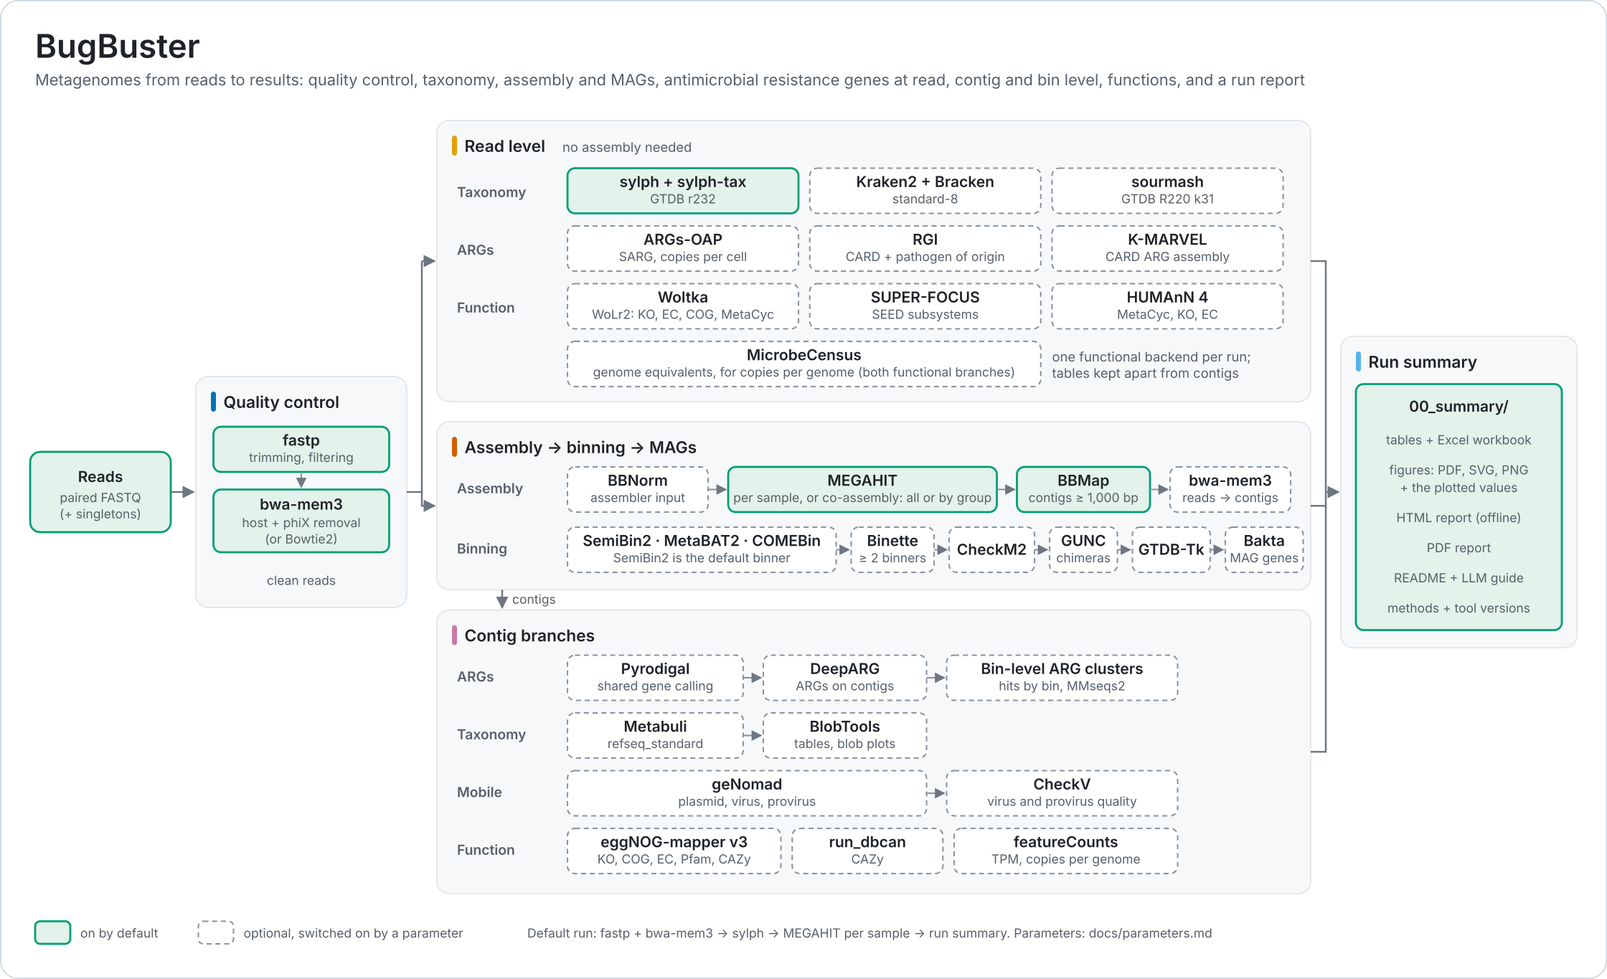
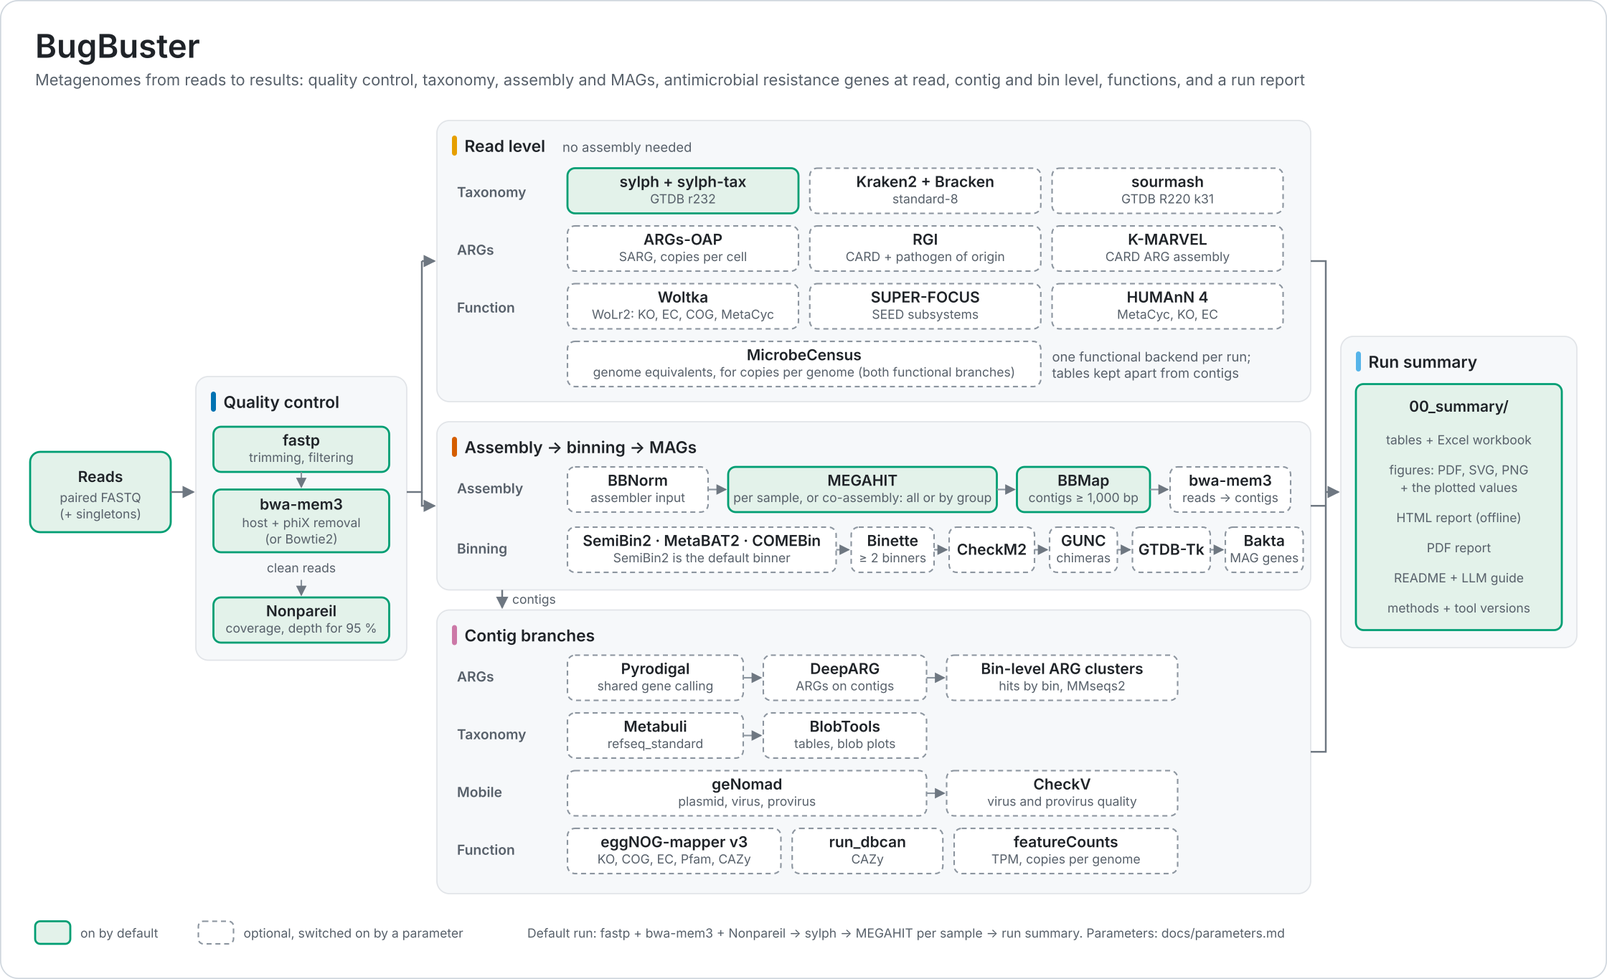
docs: Nonpareil sequencing coverage
--nonpareil and --summary_min_nonpareil_coverage in docs/parameters.md and the
manual (what the curve, coverage, Nd and the depth for 95 % coverage mean, how
to read the figure, the low-coverage note, R1 only, run-to-run noise, cost),
NONPAREIL in the workflow diagrams (QC stage, gates, module reference,
outputs), an on-by-default box in the overview figure, README and CHANGELOG.

Changed region(s): [[0.125, 0.5846, 0.25, 0.6769], [0.6875, 0.9538, 0.7188, 0.9846], [0.5312, 0.9231, 0.5625, 0.9538]]

diff --git a/docs/manual.md b/docs/manual.md
@@ -484,6 +484,7 @@ breaks `-resume`.
 | Parameter | Default | Options | Description |
 |-----------|---------|---------|-------------|
 | `--quality_control` | `true` | `true`, `false` | Enable QC and host filtering |
+| `--nonpareil` | `true` | `true`, `false` | Nonpareil sequencing coverage, diversity (Nd) and read pairs for 95 % coverage per sample, from R1 of the clean reads; see 6.5 |
 | `--assembly_mode` | `assembly` | `assembly`, `coassembly`, `none` | Genome assembly strategy |
 | `--coassembly_group_by` | — | a `--sample_metadata` column | With `coassembly`: one co-assembly per value of the column (see 6.7) |
 | `--taxonomic_profiler` | `sylph` | `kraken2`, `sourmash`, `sylph`, `none` | Taxonomic profiling tool (default `sourmash` before 2.0.0) |
@@ -693,6 +694,43 @@ breaks `-resume`.
 | `--fastp_cut_front_mean_quality` | `20` | Mean quality threshold for front trimming |
 | `--fastp_cut_right_window_size` | `4` | Sliding window size for right trimming |
 | `--fastp_cut_right_mean_quality` | `20` | Mean quality threshold for right trimming |
+
+#### Sequencing coverage (Nonpareil)
+
+With `--nonpareil` (on by default), Nonpareil 3.5.5 estimates how much of each sample's community its reads cover, from the
+redundancy of the reads themselves: no reference database is involved. It takes 10,000 query reads from R1 of the
+clean reads and asks, at sequencing efforts from a fraction of the sample up to all of it, how often a query's
+k-mers (k = 24) are found in the other reads. A read that matches sequence seen before adds no new diversity, so
+this share, plotted against the effort, is the **coverage curve**. The Nonpareil R package (`Nonpareil.curve`)
+corrects it and fits a model that projects it to larger efforts. Three values come out per sample
+(`00_summary/tables/samples_qc.tsv`, and `01_quality_control/nonpareil/<sample>/<sample>_nonpareil.tsv`):
+
+- `nonpareil_coverage`: the estimated average coverage at the sample's sequenced depth (0-1). 0.9 means about
+  nine in ten new reads would match sequence already sequenced; the rest of the community is still unsampled.
+- `nonpareil_diversity`: the sequence diversity index Nd, the position of the fitted curve on the log scale of
+  sequencing effort. A more diverse community needs more sequencing to reach the same coverage and has a higher Nd.
+  It correlates with alpha diversity (Rodriguez-R et al. 2018) but does not depend on a reference database.
+- `nonpareil_depth_95pct`: the read pairs the model projects for 95 % coverage. Compare it with `clean_pairs`:
+  far above it, much of the community's diversity is still unsampled.
+
+**The figure** (`nonpareil_curves`, in the report's overview) draws each sample's observed curve (solid, with its
+25th-75th percentiles when there are few samples) and the model's projection (dashed) against read pairs on a log
+axis. The point is the sample's sequenced depth at its coverage. Where the dashed line crosses the dotted 95 % line
+is `nonpareil_depth_95pct`. A curve that is still climbing steeply at its point would gain much from more
+sequencing, and a flat one would gain little. The dashed vermillion line is the low-coverage cutoff,
+`--summary_min_nonpareil_coverage` (0.6 by default). Samples below it get a note in the overview and the README: a
+taxon or gene missing there is weak evidence, and an assembly recovers mainly the dominant populations. The
+low-depth flag (`--summary_min_clean_pairs`) stays a read count and is not changed by Nonpareil.
+
+Nonpareil uses R1 only (R2 comes from the same fragments and adds none of its own) and leaves the singleton file
+out. Its values are per sample, so they are valid in any batch and comparable across batches. Its k-mer mode has
+no random seed, so a rerun gives slightly different values. When the curve cannot be fitted (too few reads, or a
+curve the package rejects), the coverage is still reported and Nd and the 95 % depth are blank; the package's
+warning is in the `warning` column of `<sample>_nonpareil.tsv`. Failure is non-fatal: the sample has no Nonpareil
+values. Reads shorter than k (24 bp; fastp keeps reads down to 15 bp) stop Nonpareil's k-mer mode, so they are left
+out first (`reads_shorter_than_k`, about 0.1 % of the reads). Cost per 10 M read pairs: about 3 min with 2 CPUs (5
+CPU-minutes), a few MB of memory and 3 GB of transient disk; it grows with the read count, and more CPUs do not
+shorten it. `--nonpareil false` turns it off.
 
 ### 6.6 Taxonomy Profiling Options
 
@@ -1110,6 +1148,7 @@ each results directory.
 | `--summary_order_by` | none | Metadata column that orders samples within a group (visit, day, ...) in the figures and the per-group detection patterns |
 | `--summary_batch_label` | output directory name (its parent's when it is `results`) | Label in the `batch` column; set it when the default does not tell the batches apart |
 | `--summary_min_clean_pairs` | `1000000` | Samples with fewer clean read pairs are flagged as low depth; a gene or taxon not found there is reported as `NA_low_depth`, not as absent |
+| `--summary_min_nonpareil_coverage` | `0.6` | With `--nonpareil`: samples whose Nonpareil coverage is below this get a note in the overview (see 6.5) |
 | `--summary_top_n` | `40` | Maximum rows in the summary ARG heatmap |
 | `--summary_taxa_per_sample` | `5` | The taxonomy heatmaps show the union of each sample's N most abundant taxa (no row cap), grouped by phylum, A-Z within |
 | `--summary_depth_marks` | `10000000,20000000` | Clean read-pair depths marked in the QC figure and counted in the report header |
@@ -1132,6 +1171,7 @@ How the summary reports the results:
 - **Method comparison.** When K-MARVEL and RGI both ran, `arg_method_comparison.tsv`, `arg_method_overlap.tsv`, an UpSet plot and a per-category bar chart show, gene by gene (alleles collapsed), what each method found. A K-MARVEL gene RGI saw below its cutoff is marked `rgi_below_cutoff`, which is partial coverage, not absence. The ARG matrices and figures use one method (`--arg-primary` in the script; K-MARVEL when present); `arg_long.tsv` holds every method's calls.
 - **ARGs-OAP (SARG).** With `--args_oap_prediction`, the summary reads `ARGS_OAP_REPORT`'s tables into `arg_sarg_long` (one row per sample and SARG subtype), `arg_sarg_type_cpc` and `arg_sarg_subtype_cpc` (copies per cell, samples as columns), `samples_qc` `args_oap_n16S`, `args_oap_ncell`, `sarg_n_subtypes` and `sarg_copies_per_cell`, and a heatmap by SARG type. SARG names its types and subtypes differently from CARD, so ARGs-OAP is reported in its own section, not in the K-MARVEL vs RGI comparison, and has no tiers. Copies per cell is not RPKM: compare samples within one unit only. A sample ARGs-OAP could not normalise (no 16S or cells) is blank, not 0.
 - **Watchlist.** The default `assets/summary_watchlist.tsv` lists the ESKAPE pathogens and the bacteria of the WHO Bacterial Priority Pathogens List 2024 and the CDC Antibiotic Resistance Threats Report 2019, plus a few other species; each row's note names its source. The report's Methods section shows the list.
+- **Sequencing coverage (Nonpareil).** With `--nonpareil`, `samples_qc` adds `nonpareil_coverage`, `nonpareil_diversity` and `nonpareil_depth_95pct` (read pairs for 95 % coverage), the overview shows the coverage curves (`nonpareil_curves`) and notes the samples below `--summary_min_nonpareil_coverage`. See 6.5.
 - **Read functional profile and MicrobeCensus.** With `--read_level_functional`, `function_read_long` holds AGGREGATE_READ_FUNCTIONS' table of every batch and `function_read_<ontology>` one wide table per ontology, in copies per genome equivalent (CPGE) when the backend computes it (Woltka, HUMAnN), else in its native unit; a sample without a MicrobeCensus estimate is `NA_no_ags` there. `samples_qc` adds the reads assigned, the annotated fraction, the MicrobeCensus average genome size and genome equivalents. A COG-category heatmap gives an overview. An ORF can carry several terms, so the tables are not compositional.
 - **Assembly.** With an assembly, `assembly_stats` gives each assembly's contigs, length, N50 / L50, GC and the contigs the length filter kept, and `assembly_read_use` the share of each sample's reads on the contigs and on their predicted genes (with `--contig_level_functional`; `NA_not_run` otherwise). Reads not on contigs are outside every contig-based table.
 - **MAGs.** With binning, `mags` has one row per refined MAG: CheckM2 completeness and contamination, a MIMAG tier (`quality_tier`: high needs completeness > 90 %, contamination < 5 %, 23S + 16S + 5S rRNA and at least 18 tRNA amino acids; medium completeness >= 50 %, contamination < 10 %), the GTDB-Tk lineage and, with `--mag_level_functional`, Bakta's rRNA, tRNA, CDS and CRISPR counts. Without Bakta the rRNA/tRNA part is unchecked and a MAG is at most medium (`tier_basis checkm2_only`). The High/Mid/Low classes of `04_binning/` are an older, different scheme. `mag_abundance` gives each MAG's depth per sample and `pct_sample_bases` (depth x MAG size / bases sequenced): the length-weighted mean of its contigs' MetaBAT2 depths (alignments at >= 97 % identity), for every sample under co-assembly and for the MAG's own sample under per-sample assembly.
@@ -1294,9 +1334,15 @@ results/
 │   │       ├── {sample}.fastp.html             # HTML report
 │   │       ├── {sample}.fastp.json             # JSON report
 │   │       └── {sample}.fastp.log              # Log file
-│   └── summary/                                # Aggregated read counts (also with quality_control=false)
-│       ├── Reads_report.csv                    # Read count summary
-│       └── Box_plot_reads.*                    # Reads per step (.pdf/.svg/.png, values in .csv)
+│   ├── summary/                                # Aggregated read counts (also with quality_control=false)
+│   │   ├── Reads_report.csv                    # Read count summary
+│   │   └── Box_plot_reads.*                    # Reads per step (.pdf/.svg/.png, values in .csv)
+│   └── nonpareil/                              # Sequencing coverage (if nonpareil=true)
+│       └── {sample}/
+│           ├── {sample}.npo                    # Nonpareil curve (R1 of the clean reads)
+│           ├── {sample}.npl                    # Nonpareil log
+│           ├── {sample}_nonpareil.tsv          # Coverage, diversity Nd, LR*, read pairs for 95 % coverage
+│           └── {sample}_nonpareil_curve.tsv    # Curve as the R package reads it + the model's projection
 ├── 02_taxonomy/                                # Taxonomic profiling (if taxonomic_profiler != 'none')
 │   ├── kraken2/                                # Kraken2 results (if taxonomic_profiler='kraken2')
 │   │   └── {sample}_*.report.txt               # Per-sample Kraken2 reports
@@ -1674,6 +1720,7 @@ The following outputs are only generated when specific parameters are enabled:
 |------------------|-------------------|-------------|
 | `00_summary/` | `results_summary=true` (default) | Run-level summary: tables, Excel workbook, figures, HTML report |
 | `01_quality_control/fastp/` | `quality_control=true` | FastP reports per sample |
+| `01_quality_control/nonpareil/` | `nonpareil=true` | Nonpareil curve, values and model per sample |
 | `01_quality_control/summary/` | always | Read-count report (`Reads_report.csv`; with a profiler, `02_taxonomy/tables/Reads_report_taxonomy.csv` adds the classified fraction) |
 | `02_taxonomy/` | `taxonomic_profiler != 'none'` | Taxonomic profiling results |
 | `02_taxonomy/phyloseq/*.RDS` | `create_phyloseq_rds=true` | R phyloseq object for downstream analysis |

diff --git a/docs/WORKFLOW_DIAGRAM.md b/docs/WORKFLOW_DIAGRAM.md
@@ -34,6 +34,7 @@ flowchart TD
     Clean -->|"args_oap_prediction<br/>(or deprecated read_arg_prediction)"| ARGS_OAP["ARGS_OAP → ARGS_OAP_REPORT<br/>SARG, stage one + two"]
     Clean -->|rgi_prediction| RgiSteps["RGI_BWT → RGI_KMER → RGI_REPORT<br/>CARD + pathogen of origin"]
     Clean -->|kmarvel_prediction| KMARVEL["KMARVEL → KMARVEL_REPORT<br/>CARD ARG assembly from reads"]
+    QC -->|"nonpareil (default)"| NONPAREIL["NONPAREIL<br/>sequencing coverage (R1)"]
     Clean -->|"microbecensus (default)<br/>and a contig or read<br/>functional branch"| MICROBECENSUS["MICROBECENSUS<br/>average genome size"]
     Clean -->|"read_level_functional != 'none'"| READ_FUNCTIONAL["READ_FUNCTIONAL<br/>woltka | superfocus | humann"]
     MICROBECENSUS --> READ_FUNCTIONAL
@@ -59,6 +60,7 @@ flowchart TD
     Versions{{versions.yml files +<br/>topic 'versions' tuples<br/>from every stage}} --> SOFTWARE_VERSIONS["SOFTWARE_VERSIONS<br/>pipeline_info/software_versions.yml"]
     SOFTWARE_VERSIONS --> RESULTS_SUMMARY
     QC -.-> RESULTS_SUMMARY
+    NONPAREIL -.-> RESULTS_SUMMARY
     TAXONOMY -.-> RESULTS_SUMMARY
     ARGS_OAP -.-> RESULTS_SUMMARY
     RgiSteps -.-> RESULTS_SUMMARY
@@ -76,7 +78,7 @@ flowchart TD
     classDef on fill:#E8F4EC,stroke:#009E73,stroke-width:2px,color:#111
     classDef opt fill:#F7F7F7,stroke:#777,stroke-width:1.5px,stroke-dasharray:5 4,color:#111
     classDef data fill:#FFF8E6,stroke:#E69F00,stroke-width:1.5px,color:#111
-    class INPUT_CHECK,PREPARE_DATABASES,QC,TAXONOMY,ASSEMBLY,SOFTWARE_VERSIONS,RESULTS_SUMMARY on
+    class INPUT_CHECK,PREPARE_DATABASES,QC,NONPAREIL,TAXONOMY,ASSEMBLY,SOFTWARE_VERSIONS,RESULTS_SUMMARY on
     class ARGS_OAP,RgiSteps,KMARVEL,MICROBECENSUS,READ_FUNCTIONAL,BINNING,PYRODIGAL,DEEPARG_CONTIGS,NFCORE_GENOMAD_ENDTOEND,ContigTax,BIN_CONTIG_LABELS,BinARG,FUNCTIONAL_ANNOTATION opt
     class Input,Clean,Versions data
 ```
@@ -97,6 +99,7 @@ subworkflow) tests it. Launch checks stop a run whose switches contradict each o
 |-------|-----------|--------------|
 | `INPUT_CHECK`, `PREPARE_DATABASES`, `QC`, `SOFTWARE_VERSIONS` | always | — |
 | `QC`: fastp + decontamination | `quality_control` (default `true`); otherwise `COUNT_READS` only | — |
+| `NONPAREIL` (in `QC`, on the clean reads) | `nonpareil` (default `true`) | — |
 | `TAXONOMY` | `taxonomic_profiler != 'none'` (default `sylph`) | `custom_sylph_db` and `custom_sylph_taxonomy` given together |
 | `ARGS_OAP`, `ARGS_OAP_REPORT` | `args_oap_prediction` or `read_arg_prediction` (deprecated alias, with a warning) | — |
 | `RGI_BWT`, `RGI_REPORT` | `rgi_prediction` | — |
@@ -206,9 +209,10 @@ flowchart TD
     Q -->|false| COUNT_READS["COUNT_READS<br/>counts only"]
     COUNT_READS --> READS_REPORT["READS_REPORT<br/>Reads_report.csv + Box_plot_reads"]
     BWAMEM3_DECONTAMINATE & BOWTIE2_DECONTAMINATE & COUNT_READS --> Clean(["clean reads"])
+    Clean -->|"nonpareil (default true)<br/>(R1 only)"| NONPAREIL["NONPAREIL<br/>k-mer redundancy curve<br/>+ Nonpareil.curve fit"]
 
     classDef on fill:#E8F4EC,stroke:#009E73,stroke-width:2px,color:#111
-    class FASTP,QFILTER,BWAMEM3_DECONTAMINATE,READS_REPORT on
+    class FASTP,QFILTER,BWAMEM3_DECONTAMINATE,READS_REPORT,NONPAREIL on
 ```
 
 ### 4. TAXONOMY
@@ -504,6 +508,7 @@ results directories outside the pipeline (manual, Example 13).
 | `BWAMEM3_DECONTAMINATE` / `BOWTIE2_DECONTAMINATE` | Single-pass phiX + host removal (bwa-mem3 by default) |
 | `COUNT_READS` | Read counting when `quality_control` is false |
 | `READS_REPORT` | `Reads_report.csv` and the reads-per-step figure |
+| `NONPAREIL` | Nonpareil k-mer coverage curve of R1 of the clean reads and its fit (coverage, diversity Nd, read pairs for 95 % coverage; `nonpareil`) |
 
 ### Taxonomic profiling (TAXONOMY)
 | Module | Description |
@@ -594,7 +599,7 @@ results/
 │                                # results_summary.html / .pdf / .xlsx, README.md, LLM_GUIDE.md,
 │                                # tables/, figures/
 ├── clean_reads/                 # Decontaminated reads (only if --store_clean_reads)
-├── 01_quality_control/          # fastp reports, Reads_report.csv
+├── 01_quality_control/          # fastp reports, Reads_report.csv, nonpareil/ (--nonpareil)
 ├── 02_taxonomy/                 # sylph / kraken2 + bracken / sourmash results, tables,
 │                                # phyloseq, figures
 ├── 03_assembly/                 # per_sample/ or coassembly/ (coassembly/<group>/ per group): contigs, filtered contigs, stats
@@ -616,7 +621,7 @@ Databases go to `--databases_dir` (default `<output>/../databases`), apart from 
 ## Execution modes
 
 ### Default run
-QC (fastp + bwa-mem3 decontamination) → sylph taxonomy → per-sample assembly (MEGAHIT +
+QC (fastp + bwa-mem3 decontamination, Nonpareil coverage) → sylph taxonomy → per-sample assembly (MEGAHIT +
 BBMap filter) → run summary. Binning, ARG prediction and functional annotation are off by
 default; for the full pipeline add their flags, for example
 `--include_binning true --binners semibin,metabat2 --args_oap_prediction true --rgi_prediction true --kmarvel_prediction true --contig_tax_and_arg true --contig_level_functional true`.

diff --git a/README.md b/README.md
@@ -29,6 +29,7 @@ The pipeline is built using [Nextflow](https://www.nextflow.io), a workflow tool
 1. Read QC, clean, and filter reads. [`FastP`](https://github.com/OpenGene/fastp)
 2. Optionally remove samples that fall below a minimum read count after quality filtering (`--min_read_sample`, default `0` = filter disabled).
 3. Remove host contaminant reads. [`bwa-mem3`](https://github.com/fg-labs/bwa-mem3) (default) or [`Bowtie2`](https://github.com/BenLangmead/bowtie2) (`--read_aligner bowtie2`)
+   - Estimate each sample's sequencing coverage, sequence diversity (Nd) and the read pairs needed for 95 % coverage from the redundancy of R1 of its clean reads (`--nonpareil`, on by default). [`Nonpareil`](https://github.com/lmrodriguezr/nonpareil)
 4. If requested AMR gene prediction with pathogen-of-origin analysis using RGI [`RGI`](https://github.com/arpcard/rgi)
    - Independently, if requested, read-level ARG assembly with K-MARVEL: CARD protein ARGs assembled from the reads, chimera-filtered, checked for resistance SNPs and confirmed with blastp (needs no assembly). [`K-MARVEL`](https://bitbucket.org/amr-avengers/k-marvel)
 5. If requested (`--args_oap_prediction`), read-level ARG profiling against SARG with ARGs-OAP, normalised to copies per cell, per 16S copy and per million reads. [`ARGs-OAP`](https://github.com/xinehc/args_oap)
@@ -205,6 +206,7 @@ sample2,/path/to/sample2_R1.fastq.gz,/path/to/sample2_R2.fastq.gz,/path/to/sampl
 | `--input` | *required* | Path to samplesheet CSV |
 | `--output` | *required* | Output directory |
 | `--quality_control` | `true` | Enable QC and host filtering |
+| `--nonpareil` | `true` | Nonpareil sequencing coverage, diversity and read pairs for 95 % coverage per sample (R1 of the clean reads) |
 | `--assembly_mode` | `assembly` | `assembly`, `coassembly`, or `none` |
 | `--coassembly_group_by` | — | A `--sample_metadata` column: one co-assembly per value (with `coassembly`) |
 | `--taxonomic_profiler` | `sylph` | `kraken2`, `sourmash`, `sylph`, or `none` (default `sourmash` before 2.0.0) |
@@ -352,6 +354,7 @@ results/
 ├── clean_reads/                # Decontaminated reads (only if --store_clean_reads)
 ├── 01_quality_control/         # FastP reports (if quality_control=true) + read-count summary
 │   ├── fastp/                  # Per-sample FastP reports
+│   ├── nonpareil/{sample}/     # Nonpareil coverage curve, values and model (if nonpareil=true, default)
 │   └── summary/                # Aggregated statistics
 ├── 02_taxonomy/                # Taxonomic profiling (if taxonomic_profiler != 'none')
 │   ├── kraken2/, sourmash/ or sylph/  # Per-sample profiler results (sylph: profile .tsv + sylph-tax .sylphmpa)

diff --git a/docs/parameters.md b/docs/parameters.md
@@ -66,6 +66,12 @@ Complete reference for all BugBuster pipeline parameters.
 - **Description**: Enable quality control and host read filtering steps
 - **Example**: `--quality_control true`
 
+### `--nonpareil`
+- **Type**: Boolean
+- **Default**: `true`
+- **Description**: Estimate each sample's sequencing coverage with Nonpareil 3.5.5 (k-mer mode, `-k 24 -X 10000 -n 1024`) on R1 of the clean reads (the input reads with `--quality_control false`), and fit its curve with the Nonpareil R package (`Nonpareil.curve`). Coverage is the estimated share of the sample's community its reads already cover; the fit adds the sequence diversity index Nd and the read pairs needed for 95 % coverage. R2 and the singleton file are not used (R2 adds no fragments of its own). Outputs go to `01_quality_control/nonpareil/<sample>/` (`<sample>.npo` curve, `.npl` log, `<sample>_nonpareil.tsv` values, `<sample>_nonpareil_curve.tsv` curve and model); the summary adds `samples_qc` `nonpareil_coverage`, `nonpareil_diversity` and `nonpareil_depth_95pct`, the figure `nonpareil_curves` and a note for samples below `--summary_min_nonpareil_coverage`. Nd and the 95 % depth are blank when the curve cannot be fitted (too few reads). Nonpareil's k-mer mode has no seed, so values change slightly from run to run. Failure is non-fatal: the sample gets no Nonpareil values. Cost per 10 M read pairs (roadmap Phase 17): about 3 min with 2 CPUs (5 CPU-minutes, ~14 % of that sample's QC), a few MB of memory and 3 GB of transient disk (an uncompressed copy of R1, removed at the end); it grows with the read count, and more CPUs do not shorten it
+- **Example**: `--nonpareil false`
+
 ### `--assembly_mode`
 - **Type**: String
 - **Default**: `assembly`
@@ -661,6 +667,12 @@ clean read pairs, and ARG calls carry a reporting tier. See the manual, section 
 - **Minimum**: `0`
 - **Description**: Samples with fewer clean read pairs are flagged as low depth. A gene or taxon not found in such a sample is reported as `NA_low_depth`, not as absent. Samples are never dropped
 - **Example**: `--summary_min_clean_pairs 5000000`
+
+### `--summary_min_nonpareil_coverage`
+- **Type**: Number (0-1)
+- **Default**: `0.6`
+- **Description**: With `--nonpareil`: samples whose Nonpareil coverage is below this get a note in the report's overview and README (a large part of their community is unsampled, so a taxon or gene missing there is weak evidence, and an assembly recovers mainly the dominant populations). It does not change the low-depth flag (`--summary_min_clean_pairs`) or any table value
+- **Example**: `--summary_min_nonpareil_coverage 0.8`
 
 ### `--summary_top_n`
 - **Type**: Integer

diff --git a/CHANGELOG.md b/CHANGELOG.md
@@ -12,6 +12,22 @@ next release is tagged.
 
 ### Added
 
+- **Sequencing coverage with Nonpareil** (`--nonpareil`, on by default).
+  Nonpareil 3.5.5 (k-mer mode; `quay.io/biocontainers/nonpareil:3.5.5--r44h077b44d_2`
+  and its depot sif, with the Nonpareil R package 3.5.3) runs on R1 of each
+  sample's clean reads, and the R package's `Nonpareil.curve` fit gives the
+  estimated coverage at the sequenced depth, the diversity index Nd and the
+  read pairs for 95 % coverage, in `01_quality_control/nonpareil/<sample>/`.
+  The summary's `samples_qc` gains `nonpareil_coverage`,
+  `nonpareil_diversity` and `nonpareil_depth_95pct`, the overview a coverage
+  curve figure (static and interactive) and a note for samples below
+  `--summary_min_nonpareil_coverage` (0.6). The values are per sample, so
+  they hold in any batch; k-mer mode has no seed, so they change slightly
+  from run to run. About 3 min, 5 CPU-minutes and 3 GB of transient disk per
+  10 M read pairs (2 CPUs). On by default, so a default run gains these files
+  and columns; `--nonpareil false` gives the outputs of before, apart from a
+  "not run" row in the summary's stage list. Reads shorter than k (24 bp) are
+  left out first, since Nonpareil's k-mer mode stops on them.
 - **MAG chimerism check with GUNC** (`--gunc_prediction`, off by default; needs
   `--include_binning`). GUNC 1.1.1 (DIAMOND 2.1.24, Prodigal 2.6.3;
   `quay.io/biocontainers/gunc:1.1.1--pyhdfd78af_0` and its depot sif) checks
